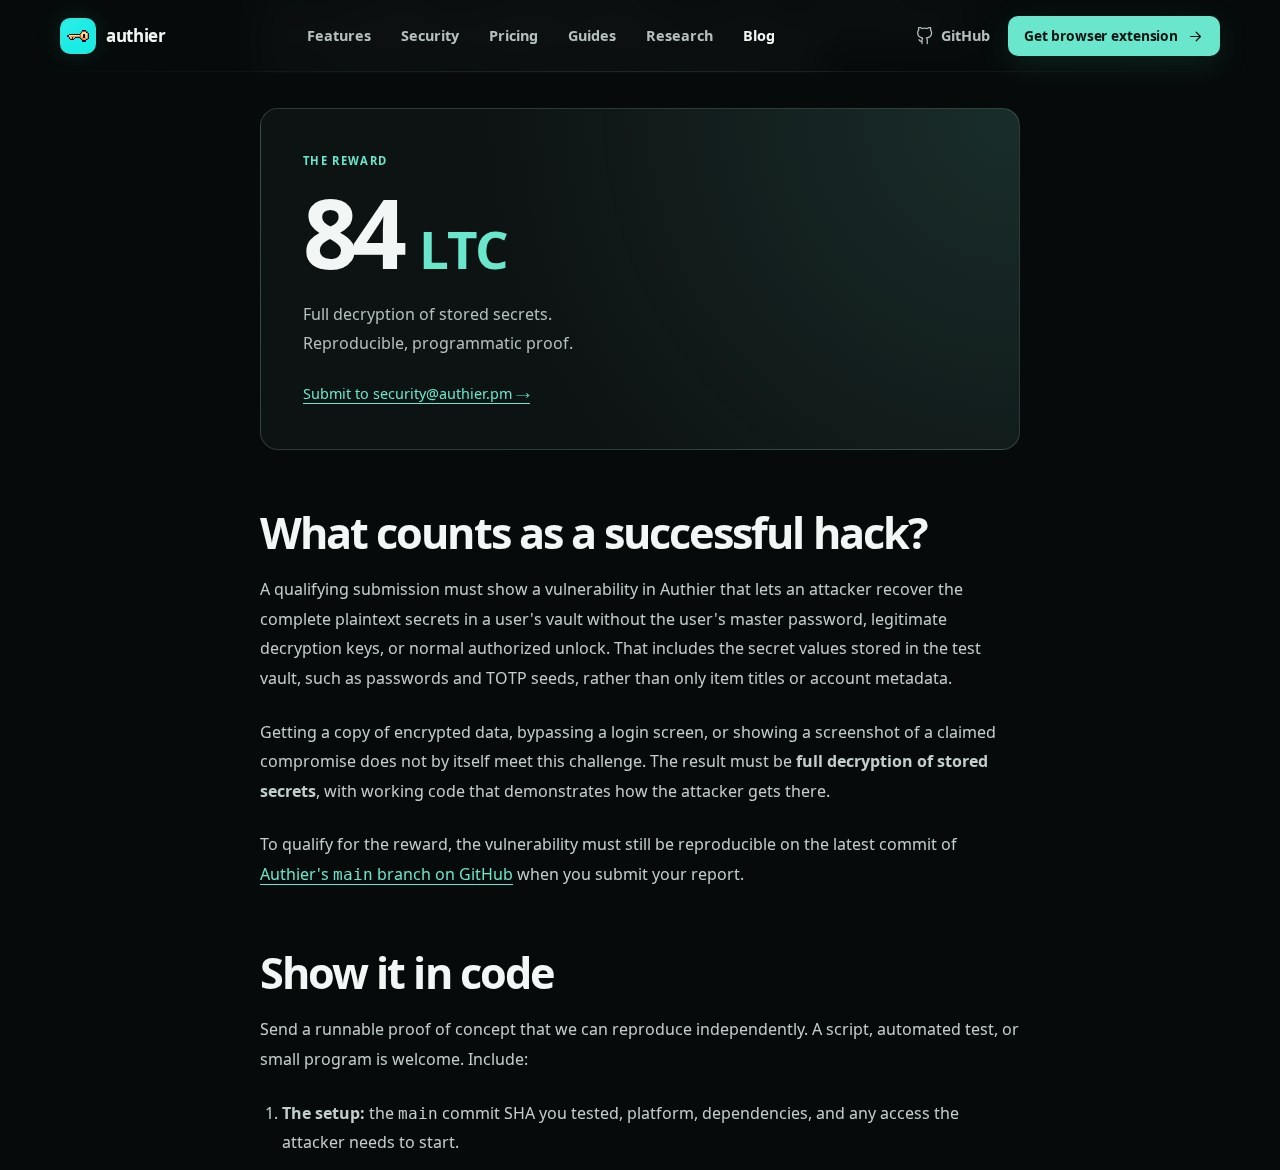
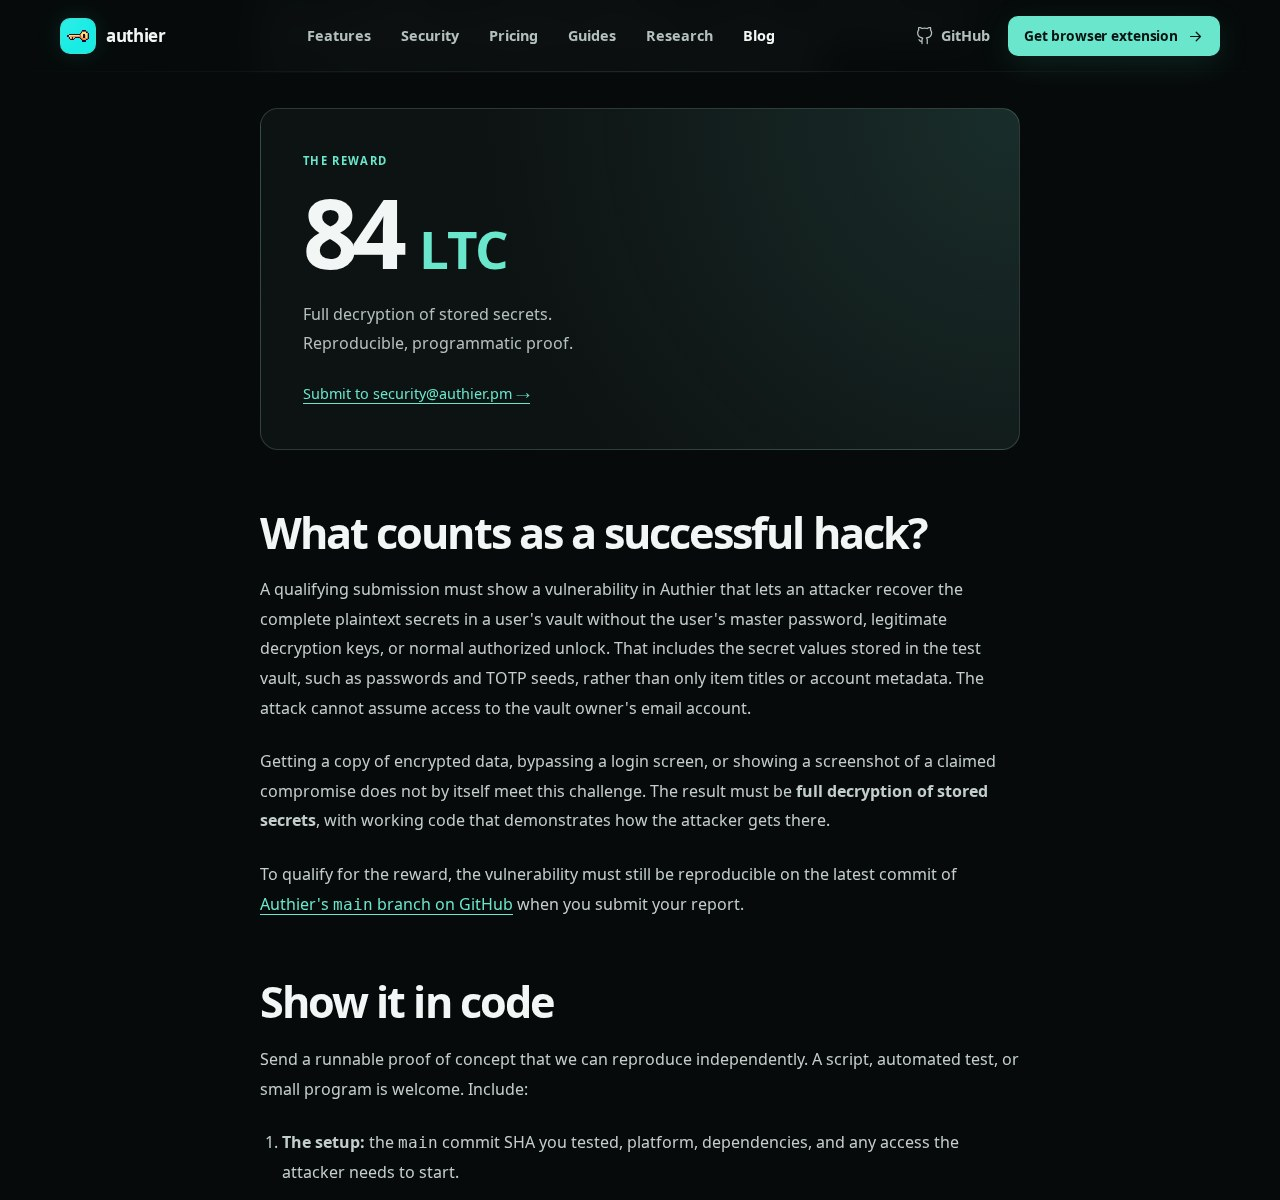
Exclude assumed email account access from the hacking prize

diff --git a/web-extension/ui-preview/README.md b/web-extension/ui-preview/README.md
@@ -30,10 +30,10 @@ The production pending-sync and upgrade notices are captured in
 The `hacking-prize-blog` scenario embeds the production 84 LTC security challenge
 announcement. Start the Astro server on port 4321 alongside the preview, then
 open `/?scenario=hacking-prize-blog`. Check the 84 LTC headline and reward card,
-full-decryption criteria, the requirement to reproduce on the latest `main` commit
-when reporting, and the tested commit SHA in the proof requirements. Check the
-fresh demo account recommendation, required Litecoin receiving address, and
-submission links on desktop and mobile.
+full-decryption criteria, the restriction on assuming email account access, and
+the requirement to reproduce on the latest `main` commit when reporting. Check
+the tested commit SHA, fresh demo account recommendation, required Litecoin
+receiving address, and submission links on desktop and mobile.
 Captures live in `docs/screenshots/hacking-prize-blog-desktop.jpg` and
 `docs/screenshots/hacking-prize-blog-mobile.jpg`.
 The account recommendation and Litecoin address requirement are captured in

diff --git a/SECURITY.md b/SECURITY.md
@@ -10,7 +10,8 @@ Authier offers an **84 LTC (Litecoin)** reward for a verified attack that fully 
 stored vault secrets. Submissions must include a reproducible, programmatic proof of concept;
 access to ciphertext or metadata alone does not qualify. Use accounts you control and synthetic
 secrets, and demonstrate the attack without supplying the user's master password or legitimate
-decryption keys as inputs. The disclosure policy and scope below apply.
+decryption keys as inputs. The attack cannot assume access to the vault owner's email account.
+The disclosure policy and scope below apply.
 
 To qualify for the reward, the vulnerability must still be reproducible on the latest commit of
 [Authier's `main` branch on GitHub](https://github.com/authier-pm/authier/tree/main) when you submit
